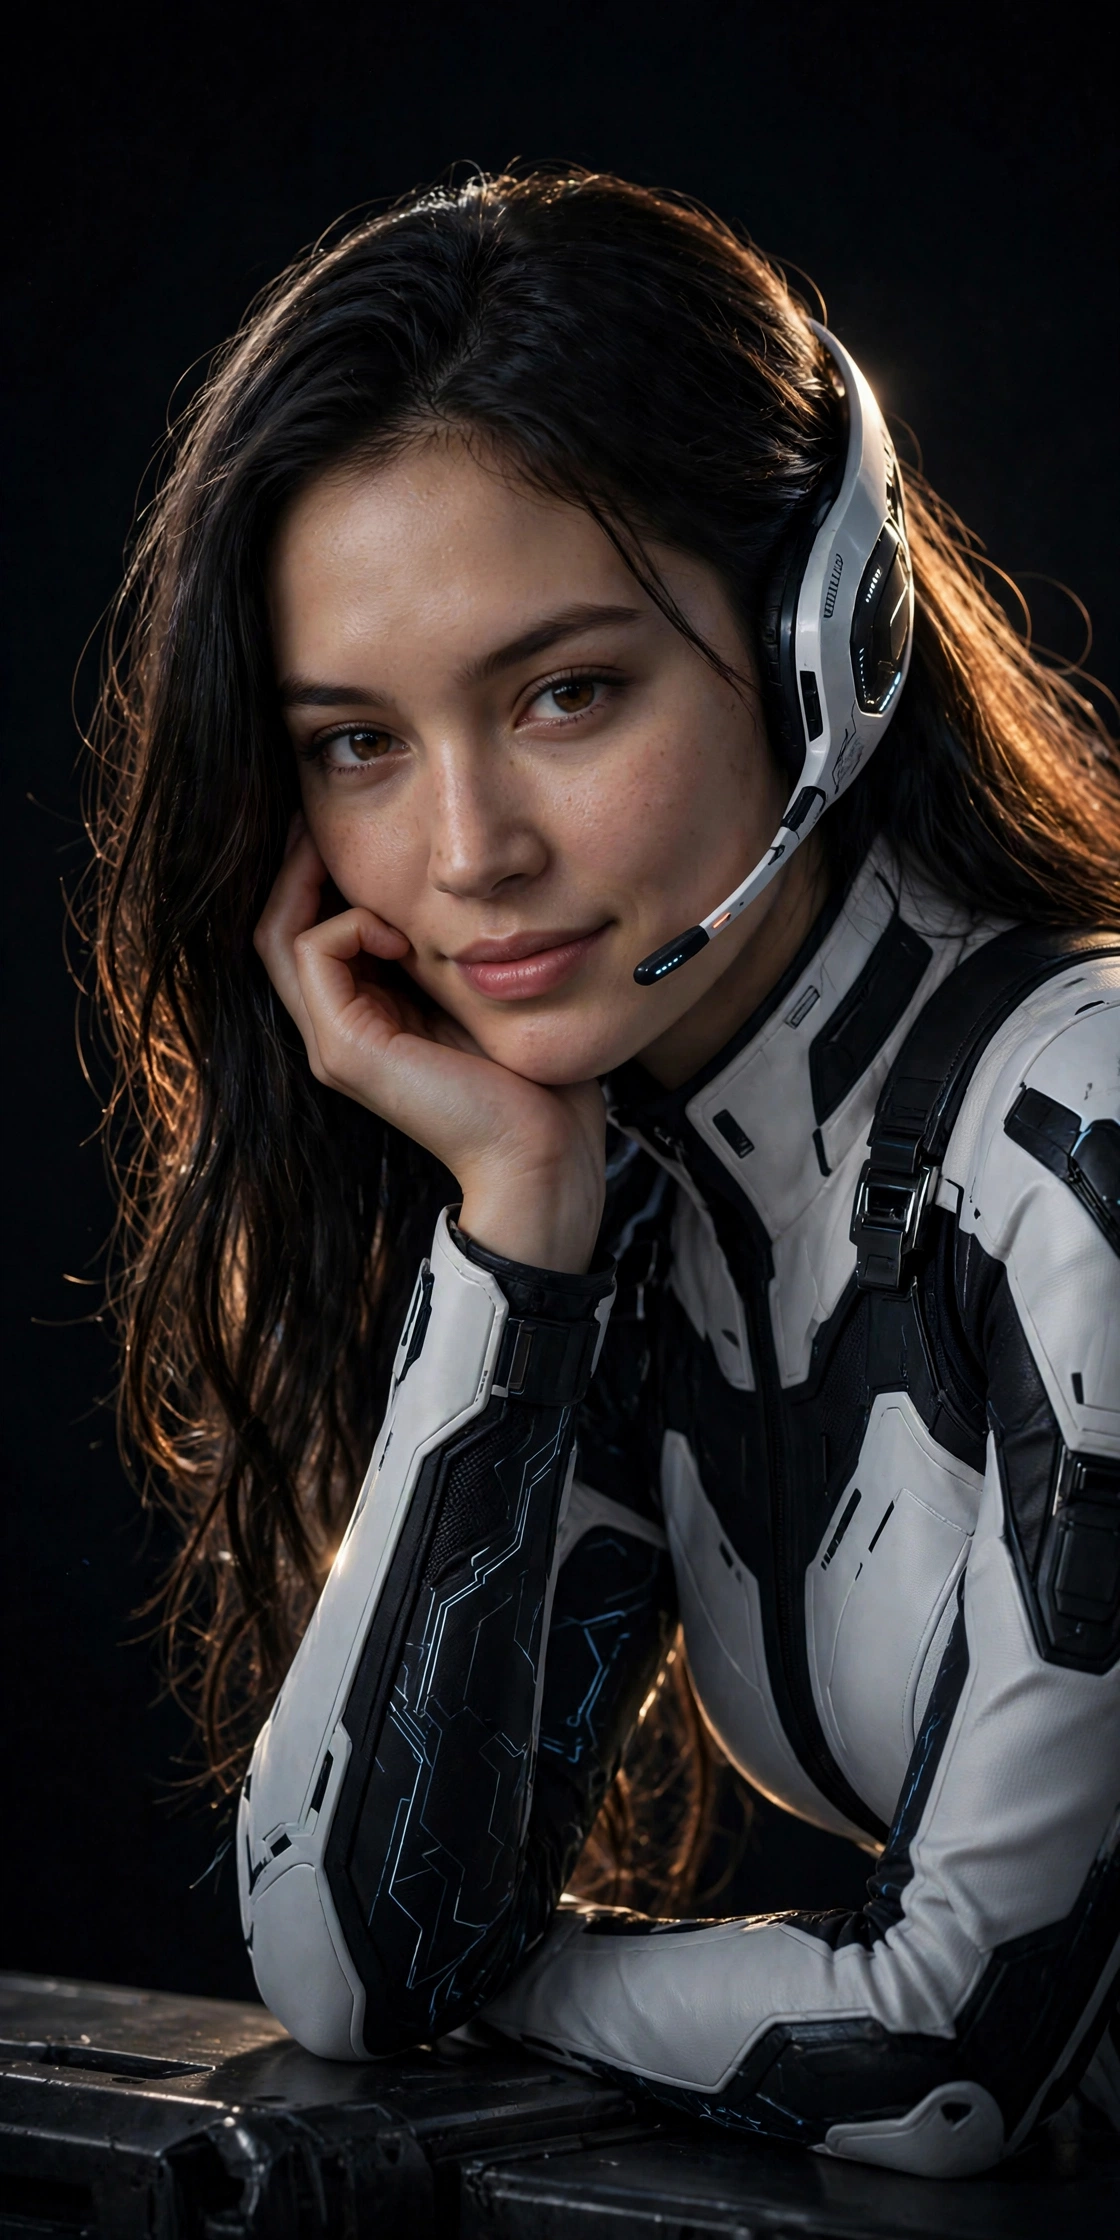
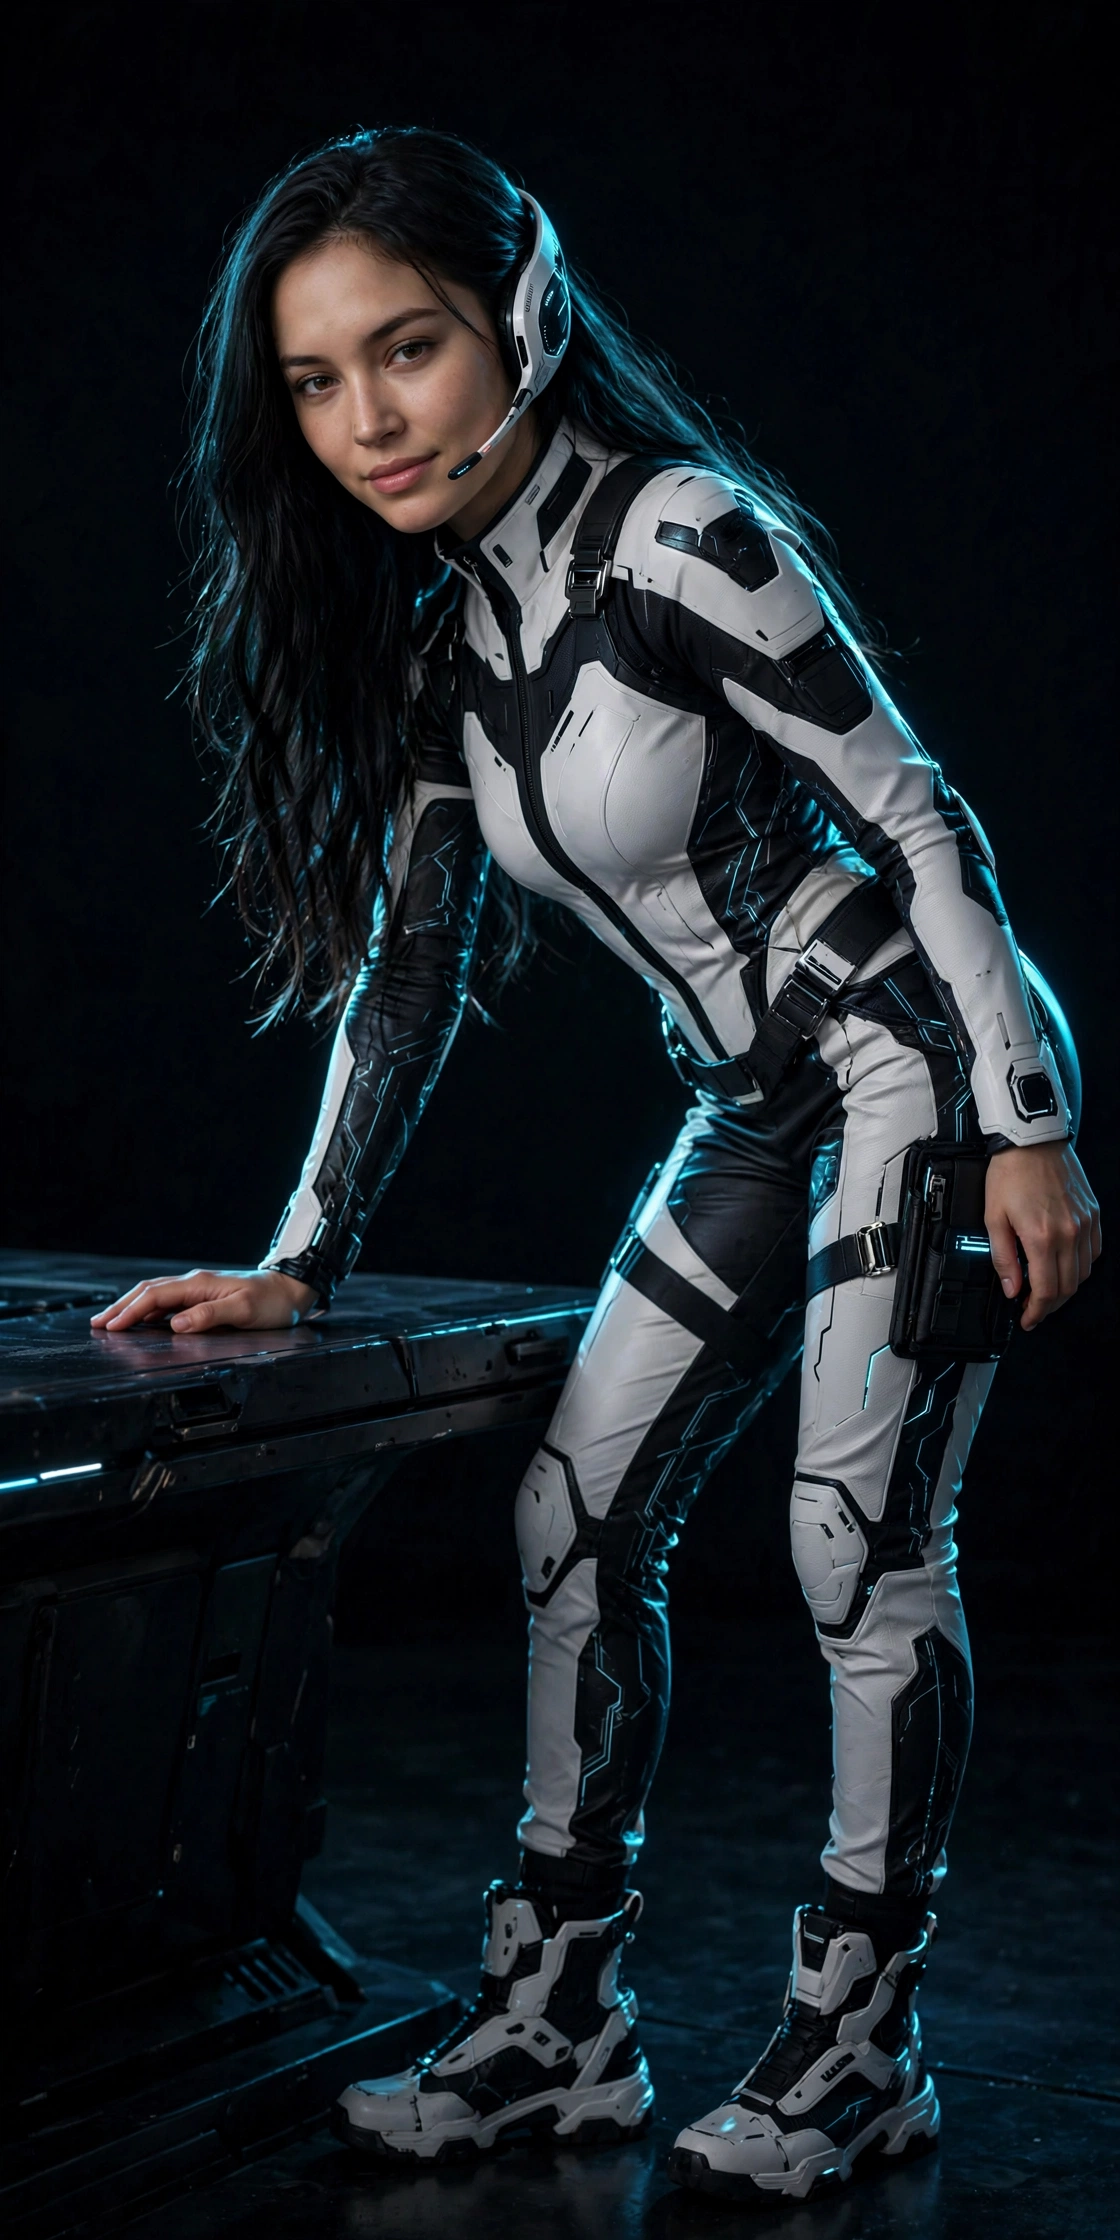
site: full-body leaning Mia in hero (mockup composition)

diff --git a/index.html b/index.html
@@ -57,7 +57,7 @@ nav{position:fixed;top:0;left:0;right:0;z-index:50;backdrop-filter:blur(14px);-w
   background:linear-gradient(100deg,rgba(5,7,13,.97) 22%,rgba(5,7,13,.72) 45%,rgba(5,7,13,.55) 78%),
              linear-gradient(0deg,var(--bg) 2%,transparent 30%)}
 .hero-grid{display:grid;grid-template-columns:1.15fr .85fr;gap:40px;align-items:center;width:100%;position:relative;z-index:2}
-.hero-mia{position:absolute;right:13%;top:46%;transform:translateY(-46%);height:min(100%,960px);z-index:3;pointer-events:none;
+.hero-mia{position:absolute;right:9%;bottom:0;top:auto;transform:none;height:102%;z-index:3;pointer-events:none;
   -webkit-mask-image:linear-gradient(100deg,transparent 2%,#000 24%),linear-gradient(0deg,#000 80%,transparent 99%);
   -webkit-mask-composite:source-in;mask-composite:intersect;
   mask-image:linear-gradient(100deg,transparent 2%,#000 24%),linear-gradient(0deg,#000 80%,transparent 99%);mask-composite:intersect}
